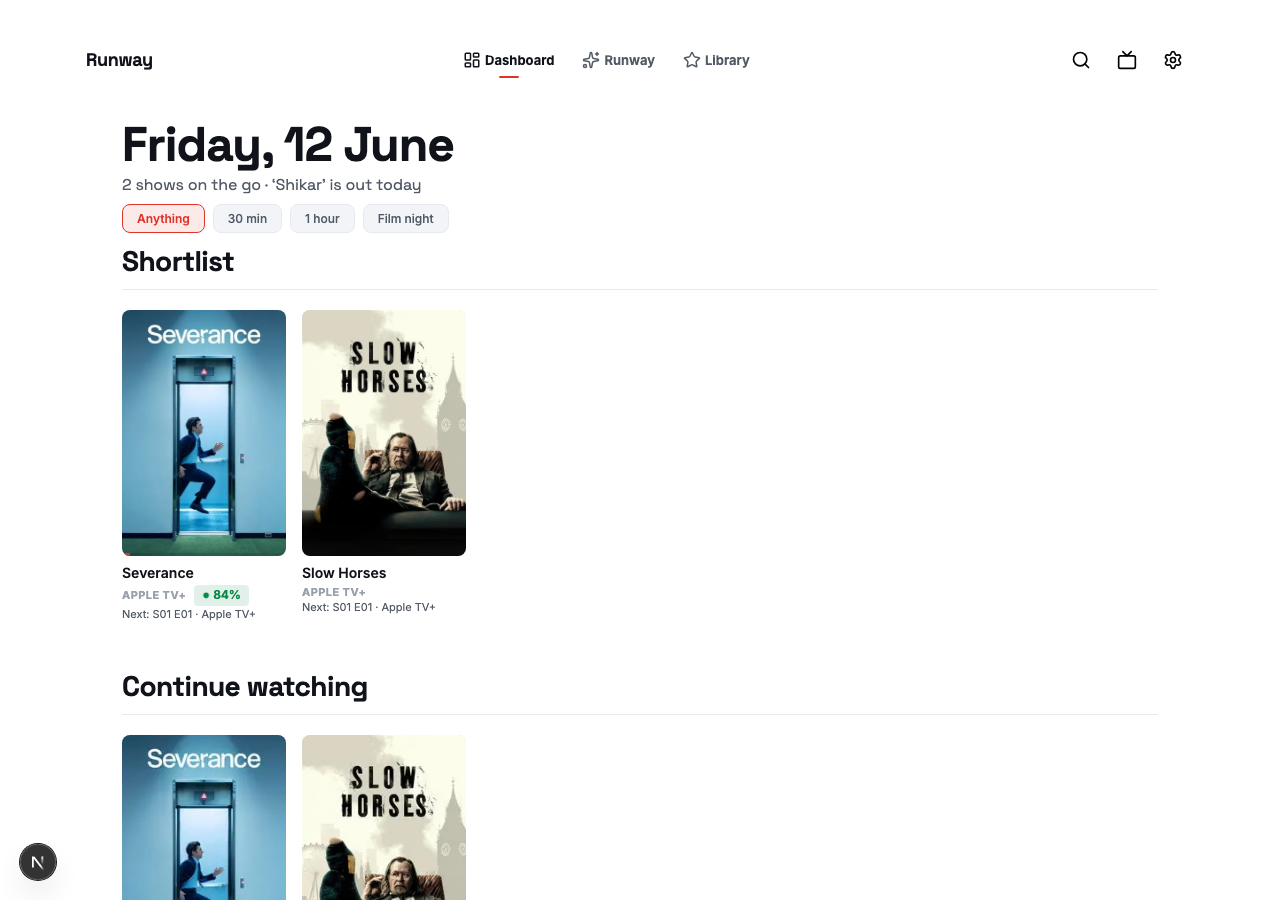
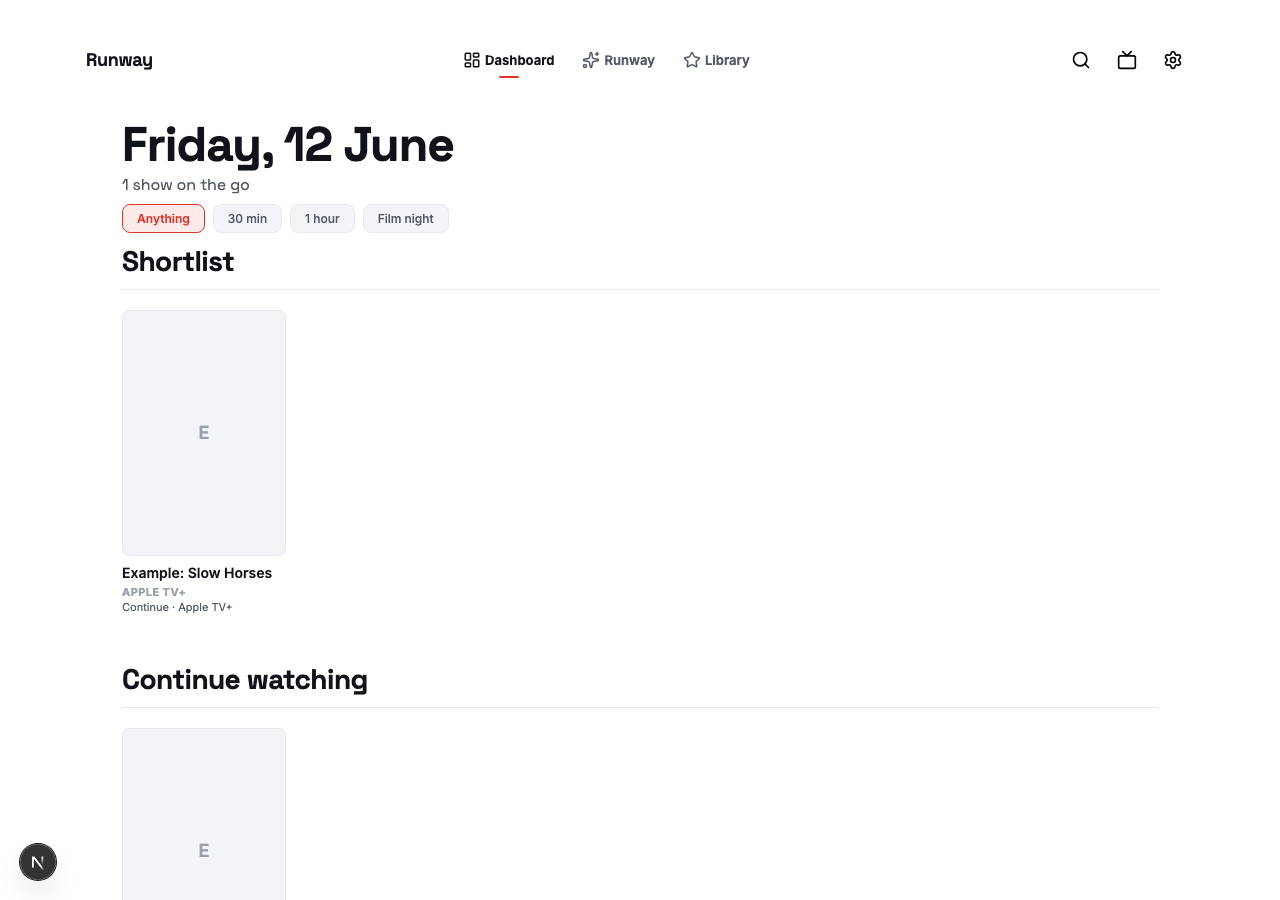
runway(pop-completion): status chips on tiles, Coming Up + On TV Tonight enabled, correct section order
- statusChipForRule() derives overlaid poster chip from shortlist rule:
  LEAVING_SOON → red 'X DAYS' chip, NEW_SEASON → green 'NEW', ON_TV_TONIGHT → 'TONIGHT'
- CountdownCard converted to naked tile format with --soon/--leaving chip overlay
- DASHBOARD_MODULES.comingUp and .onTvTonight set to true
- Dashboard section order now matches spec: Shortlist → Continue → New for you
  → Coming up → Trending this week → On TV tonight
- countdown-rail CSS added (same scroll-snap rail pattern as other rails)
- screenshot-phase5.mjs updated to use .tile-title selector + waitForDiscovery

diff --git a/src/app/Runway.tsx b/src/app/Runway.tsx
@@ -185,8 +185,8 @@ const appVersion = '0.1.5'
 // Re-admit each module in Phase 5 after screenshot evidence + prod-bar verdict.
 const DASHBOARD_MODULES = {
   reconciliation: false,
-  comingUp:       false,
-  onTvTonight:    false,
+  comingUp:       true,
+  onTvTonight:    true,
   worthALook:     false,
 } as const
 const watchStatusOrder: WatchStatus[] = ['watching', 'waiting', 'planned', 'completed', 'dropped']
@@ -1755,29 +1755,12 @@ function App() {
             </div>
           )}
 
-          {/* Discovery rails — New for you + Trending */}
+          {/* Discovery + personal modules — spec order: New for you → Coming up → Trending → On TV tonight */}
           {newForYou.length > 0 && (
             <div className="dashboard-section">
               <h2 className="dashboard-section-header">New for you</h2>
               <DiscoveryRail items={newForYou} />
             </div>
-          )}
-
-          {trendingForYou.length > 0 && (
-            <div className="dashboard-section">
-              <h2 className="dashboard-section-header">Trending this week</h2>
-              <DiscoveryRail items={trendingForYou} />
-            </div>
-          )}
-
-          {/* DASHBOARD_MODULES — Phase 3: all optional modules gated off.
-              Re-admit one at a time in Phase 5 once quality is proven. */}
-          {DASHBOARD_MODULES.reconciliation && reconItems.length > 0 && (
-            <ReconciliationCard
-              items={reconItems}
-              onConfirm={(item) => markWatched(item, item.tmdbId ? showDetailCache[item.tmdbId] : undefined)}
-              onDismiss={() => setReconDismissed(true)}
-            />
           )}
 
           {DASHBOARD_MODULES.comingUp && countdownGroups.length > 0 && (
@@ -1786,7 +1769,7 @@ function App() {
               {countdownGroups.map((group) => (
                 <div key={group.label} className="countdown-group">
                   <p className="countdown-group-label">{group.label}</p>
-                  <div className="countdown-cards">
+                  <div className="countdown-rail">
                     {group.items.map((item) => (
                       <CountdownCard
                         key={item.id}
@@ -1801,6 +1784,21 @@ function App() {
                 </div>
               ))}
             </div>
+          )}
+
+          {trendingForYou.length > 0 && (
+            <div className="dashboard-section">
+              <h2 className="dashboard-section-header">Trending this week</h2>
+              <DiscoveryRail items={trendingForYou} />
+            </div>
+          )}
+
+          {DASHBOARD_MODULES.reconciliation && reconItems.length > 0 && (
+            <ReconciliationCard
+              items={reconItems}
+              onConfirm={(item) => markWatched(item, item.tmdbId ? showDetailCache[item.tmdbId] : undefined)}
+              onDismiss={() => setReconDismissed(true)}
+            />
           )}
 
           {DASHBOARD_MODULES.onTvTonight && (
@@ -2825,6 +2823,16 @@ function ScoreChip({ avg }: { avg: number | undefined }) {
   return <span className={scoreChipClass(avg)}>● {pct}%</span>
 }
 
+function statusChipForRule(rule: ShortlistRule, leavingDate?: string | null): { text: string; cls: string } | null {
+  if (rule === 'LEAVING_SOON' && leavingDate) {
+    const d = Math.round((new Date(leavingDate + 'T12:00:00Z').getTime() - Date.now()) / 86400000)
+    return { text: d <= 0 ? 'TODAY' : d === 1 ? '1 DAY' : `${d} DAYS`, cls: 'chip-leaving' }
+  }
+  if (rule === 'NEW_SEASON') return { text: 'NEW', cls: 'chip-new' }
+  if (rule === 'ON_TV_TONIGHT') return { text: 'TONIGHT', cls: 'chip-new' }
+  return null
+}
+
 function ruleReasonClass(rule: ShortlistRule): string {
   if (rule === 'LEAVING_SOON') return 'reason-leaving'
   if (rule === 'FINISH_LINE' || rule === 'NEW_SEASON') return 'reason-new'
@@ -2847,6 +2855,7 @@ function ShortlistCard({
   const progress = showDetail && item.type !== 'film' && item.type !== 'sport'
     ? computeWatchProgress(item, showDetail)
     : 0
+  const statusChip = statusChipForRule(rule, item.leavingDate)
   return (
     <article className="tile shortlist-tile" style={{ '--card-index': cardIndex } as CSSProperties}>
       <div className="tile-poster">
@@ -2864,6 +2873,9 @@ function ShortlistCard({
           <div className="tile-poster-fallback">
             <span className="poster-fallback-initial">{(item.title[0] ?? '?').toUpperCase()}</span>
           </div>
+        )}
+        {statusChip && (
+          <span className={`chip ${statusChip.cls} tile-status-chip`}>{statusChip.text}</span>
         )}
         {progress > 0 && (
           <div className="tile-progress-track">
@@ -3058,28 +3070,30 @@ function CountdownCard({
   posterPath: string | null
   title: string
 }) {
-  const isUrgent = days <= 7
+  const chipCls = days <= 7 ? 'chip-leaving' : 'chip-soon'
   return (
-    <div className="countdown-card">
-      {posterPath ? (
-        <Image
-          src={`https://image.tmdb.org/t/p/w185${posterPath}`}
-          alt=""
-          width={185}
-          height={278}
-          sizes="130px"
-          style={{ width: '100%', height: 'auto', display: 'block' }}
-          placeholder="blur"
-          blurDataURL={makePosterBlur(dominantColour)}
-        />
-      ) : (
-        <div className="countdown-card-fallback poster-fallback">
-          <span className="poster-fallback-title">{title}</span>
-        </div>
-      )}
-      <div className="countdown-card-info">
-        <p className="countdown-card-title">{title}</p>
-        <span className={isUrgent ? 'countdown-chip countdown-chip--urgent' : 'countdown-chip'}>{chip}</span>
+    <div className="tile countdown-tile">
+      <div className="tile-poster">
+        {posterPath ? (
+          <Image
+            src={`https://image.tmdb.org/t/p/w185${posterPath}`}
+            alt=""
+            width={185}
+            height={278}
+            sizes="164px"
+            style={{ width: '100%', height: '100%', objectFit: 'cover', display: 'block' }}
+            placeholder="blur"
+            blurDataURL={makePosterBlur(dominantColour)}
+          />
+        ) : (
+          <div className="tile-poster-fallback">
+            <span className="poster-fallback-initial">{(title[0] ?? '?').toUpperCase()}</span>
+          </div>
+        )}
+        <span className={`chip ${chipCls} tile-status-chip`}>{chip}</span>
+      </div>
+      <div className="tile-body">
+        <div className="tile-title">{title}</div>
       </div>
     </div>
   )

diff --git a/src/app/runway.css b/src/app/runway.css
@@ -2241,6 +2241,28 @@ button:disabled {
   padding-bottom: var(--space-2);
 }
 
+.countdown-rail {
+  display: flex;
+  gap: var(--space-4);
+  overflow-x: auto;
+  scroll-snap-type: x mandatory;
+  padding-bottom: var(--space-2);
+  -webkit-overflow-scrolling: touch;
+}
+
+.countdown-rail::-webkit-scrollbar { display: none; }
+
+/* Status chip overlaid on poster top-left */
+.tile-status-chip {
+  position: absolute;
+  top: 6px;
+  left: 6px;
+  z-index: 2;
+  font-size: 10px;
+  padding: 2px 6px;
+  pointer-events: none;
+}
+
 .countdown-card {
   flex: 0 0 auto;
   width: 130px;
